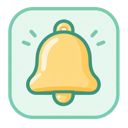
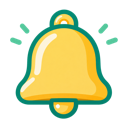
Blend bell mark into Chime surfaces

diff --git a/src/admin/admin.css b/src/admin/admin.css
@@ -118,13 +118,13 @@ select:focus-visible,
 
 .admin-brand__mark {
   align-items: center;
-  background: rgba(255, 255, 255, 0.94);
-  border: 1px solid rgba(255, 255, 255, 0.35);
-  border-radius: 13px;
+  background: transparent;
+  border: 0;
+  border-radius: 0;
   display: grid;
   height: 39px;
-  overflow: hidden;
-  padding: 2px;
+  overflow: visible;
+  padding: 0;
   place-items: center;
   width: 39px;
 }

diff --git a/src/index.css b/src/index.css
@@ -57,11 +57,12 @@
 }
 
 .chime-widget .chime-logo--icon {
-  background: color-mix(in srgb, var(--chime-surface) 78%, transparent);
-  border: 1px solid color-mix(in srgb, var(--mint-500) 22%, transparent);
-  border-radius: 13px;
+  background: transparent;
+  border: 0;
+  border-radius: 0;
+  box-shadow: none;
   flex: 0 0 42px;
-  padding: 3px;
+  padding: 0;
   width: 42px;
 }
 
